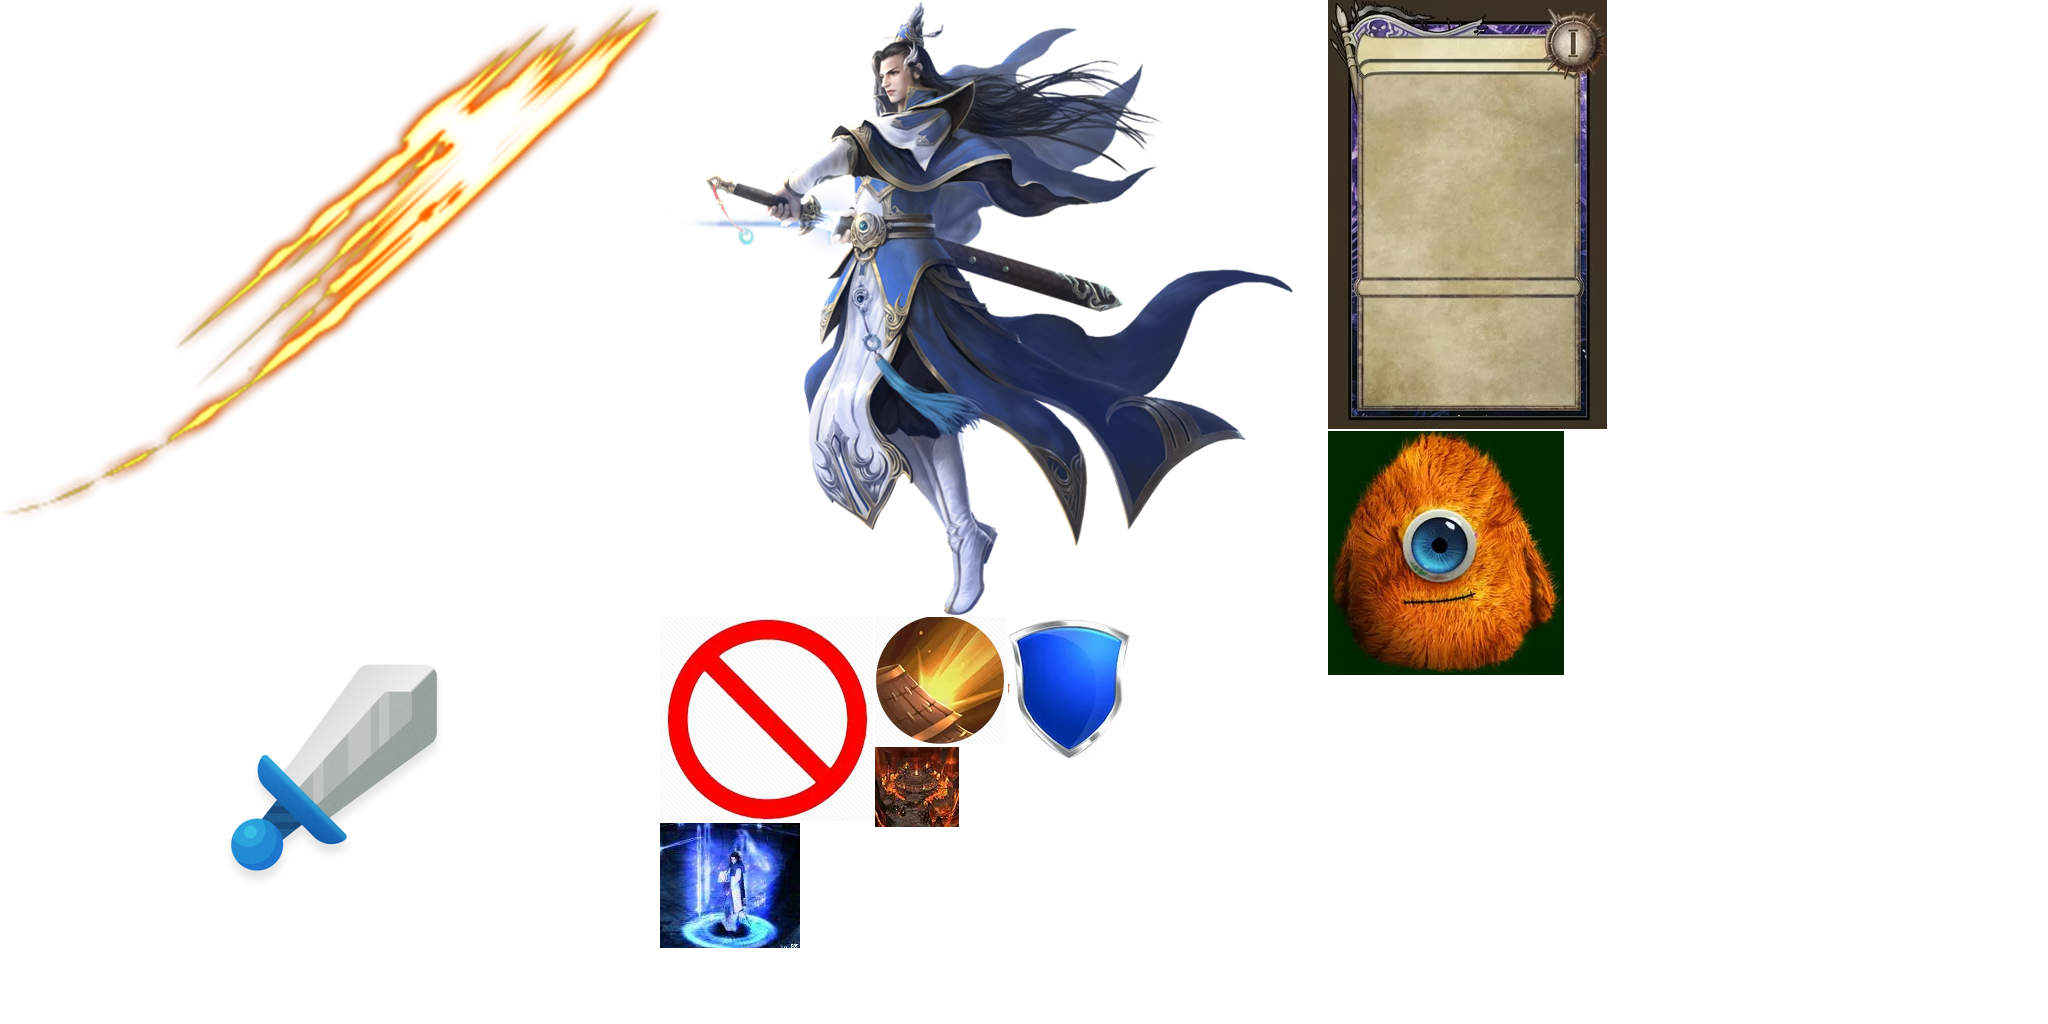
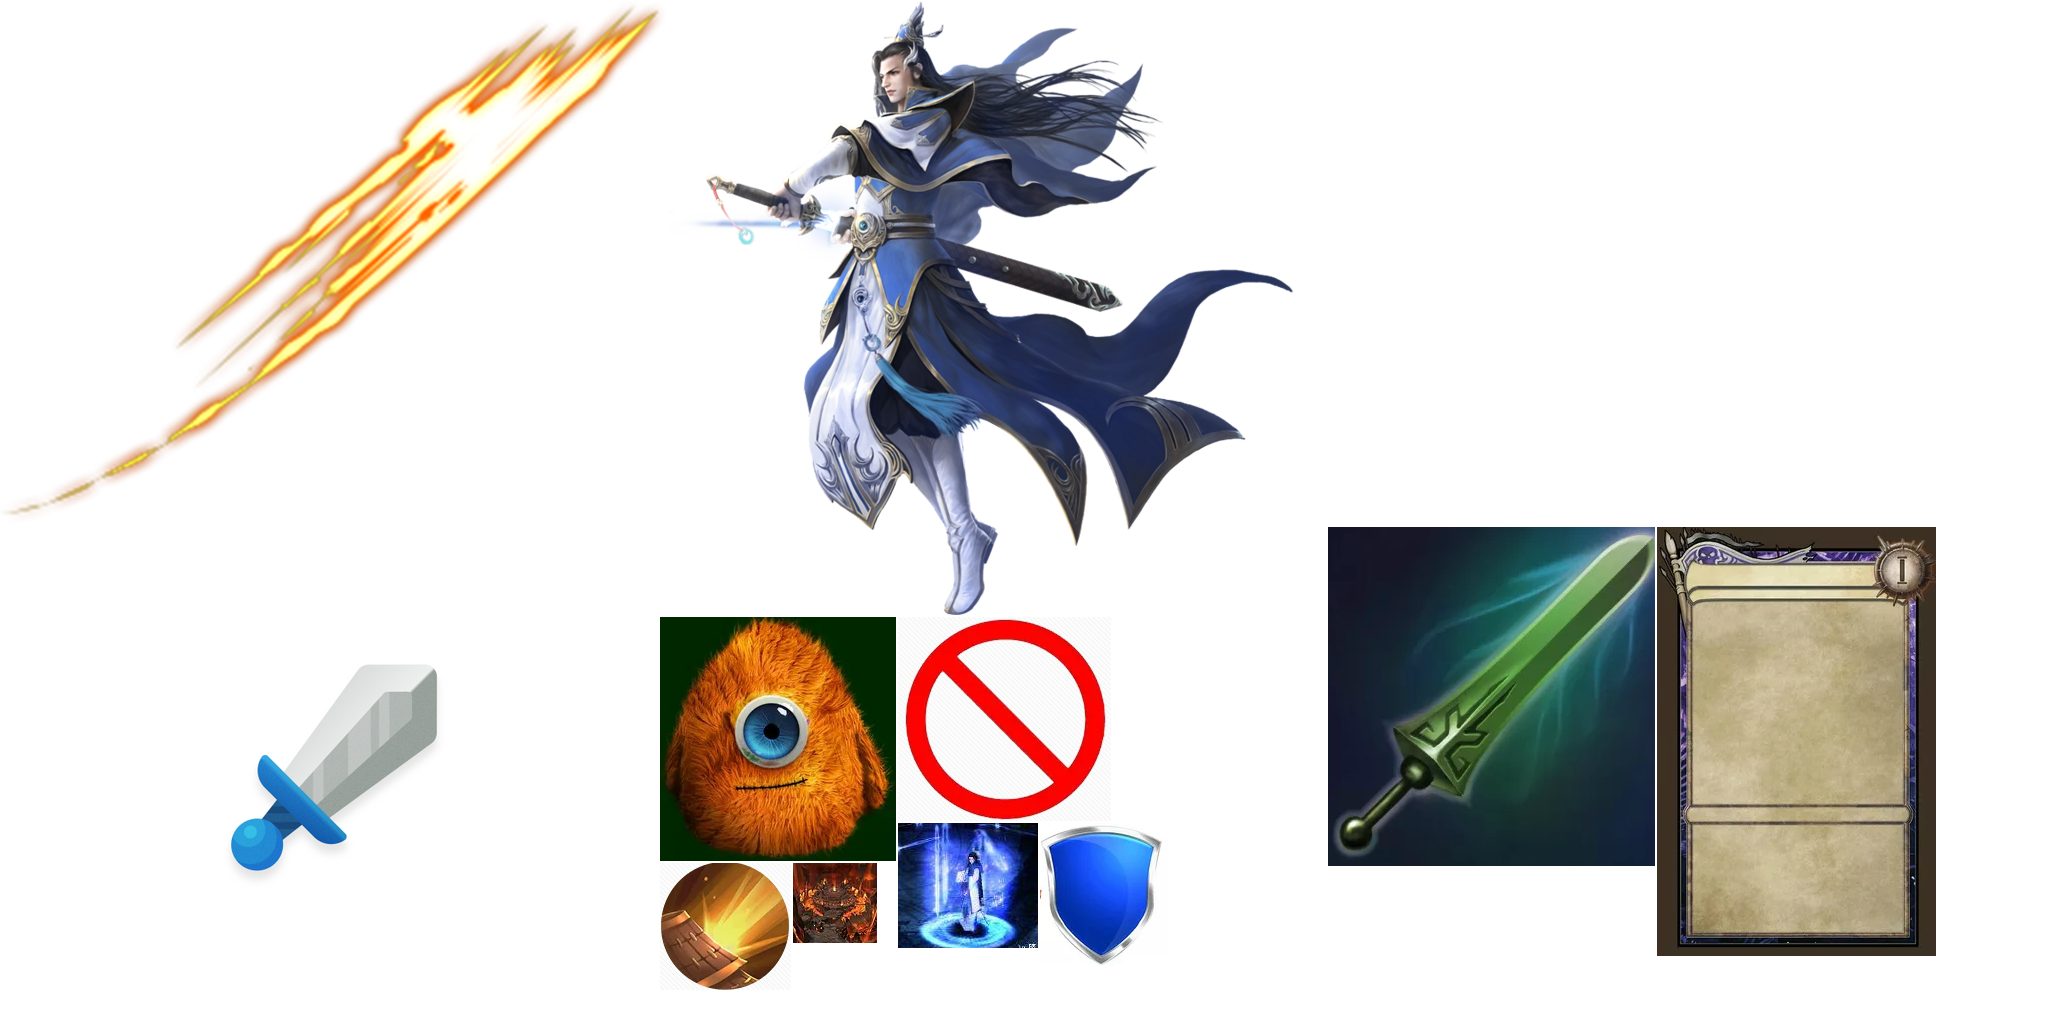
幻剑buff表现 多段伤害表现

Changed region(s): [[0.625, 0.0, 0.9688, 0.9375], [0.3125, 0.5938, 0.5625, 0.9688]]

diff --git a/Assets/Scripts/Battle/Control/BattleManager.cs b/Assets/Scripts/Battle/Control/BattleManager.cs
@@ -305,11 +305,7 @@ public class BattleManager : IDisposable
             {
                 case CardEffectType.ONE_DAMAGE:
                     int iDmgCount = effectTemplate.iEffectCount > 1 ? effectTemplate.iEffectCount : 1;
-                    for (int i = 0; i <iDmgCount; ++i)
-                    {
-                        this.DamageEnemy(targetInstId, effectTemplate.iEffectValue);
-                    }
-                    //_battleModel.ReduceEnemyHp(targetInstId, effectTemplate.iEffectValue);
+                    Core.Inst.StartCoroutine(DamageEnemyCoroutine(iDmgCount, targetInstId, effectTemplate));
                     break;
                 case CardEffectType.GET_ARMOR:
                     _battleModel.AddArmor(effectTemplate.iEffectValue);
@@ -327,7 +323,6 @@ public class BattleManager : IDisposable
                     break;
                 case CardEffectType.DRAW_CARD:
                     SelfDrawCard(effectTemplate.iEffectValue);
-                    //DrawMultiCard(effectTemplate.iEffectValue);
                     break;
                 case CardEffectType.GIVE_COST:
                     _battleModel.ReduceCost(-effectTemplate.iEffectValue);
@@ -345,22 +340,14 @@ public class BattleManager : IDisposable
             HandleCardEffect(cardInstance, effectTemplate.nLinkId, targetInstId);
     }
 
-    ///// <summary>
-    ///// 抽多张牌
-    ///// </summary>
-    ///// <param name="drawCount"></param>
-    //internal void DrawMultiCard(int drawCount)
-    //{
-    //    if (HasBuff(BuffType.CAN_NOT_DRAW_CARD))
-    //    {
-    //        return;
-    //    }
-
-    //    for (var i = 0; i < drawCount; ++i)
-    //    {
-    //        DrawOneCard();
-    //    }
-    //}
+    private IEnumerator DamageEnemyCoroutine(int iDmgCount, int targetInstId, CardEffectTemplate effectTemplate)
+    {
+        for (int i = 0; i < iDmgCount; ++i)
+        {
+            DamageEnemy(targetInstId, effectTemplate.iEffectValue);
+            yield return new WaitForSeconds(0.2f);
+        }
+    }
 
     //检测能否触发卡牌效果
     internal bool CanTriggerCardEffect(uint effectId, int targetInstId)

diff --git a/Assets/Scripts/Battle/View/BuffRender.cs b/Assets/Scripts/Battle/View/BuffRender.cs
@@ -19,6 +19,10 @@ namespace UI.Battle
                     txtValue.text = templet.iEffectA.ToString();
                     txtValue.visible = true;
                     break;
+                case BuffType.MAGIC_SWORD:  //幻剑
+                    txtValue.text = buffInst.effectVal.ToString();
+                    txtValue.visible = true;
+                    break;
                 default:
                     txtValue.text = buffInst.leftBout.ToString();
                     txtValue.visible = buffInst.leftBout > 0;

diff --git a/Assets/Scripts/Map/Model/CharModel.cs b/Assets/Scripts/Map/Model/CharModel.cs
@@ -32,7 +32,8 @@ public class CharModel
         //lstInitCardId.Add(5);   //todo 测试用 五灵归宗
         //lstInitCardId.Add(7);   //todo 测试用 金甲阵
         //lstInitCardId.Add(9);   //todo 测试用 地脉阵
-        lstInitCardId.Add(11);   //todo 测试用
+        lstInitCardId.Add(17);   //todo 测试用
+        lstInitCardId.Add(19);   //todo 测试用
 
         foreach (uint cardId in lstInitCardId)
         {

diff --git a/Assets/Scripts/Battle/Model/EnemyInstance.cs b/Assets/Scripts/Battle/Model/EnemyInstance.cs
@@ -15,7 +15,7 @@ public class EnemyInstance : ObjectBase
         template = EnemyTemplateData.GetData(tplId);
         if (template == null)
             return;
-        curHp = maxHp = 12;  //todo 删除测试代码
+        curHp = maxHp = 16;  //todo 删除测试代码
         //curHp = maxHp = template.iHp;
     }
 
